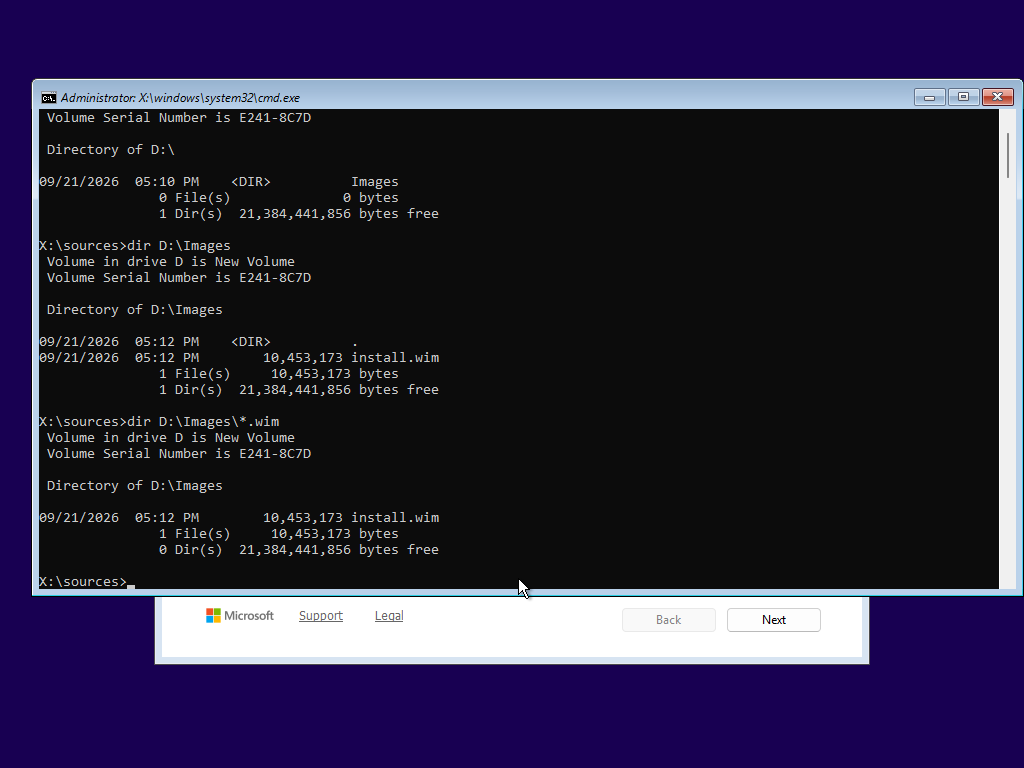
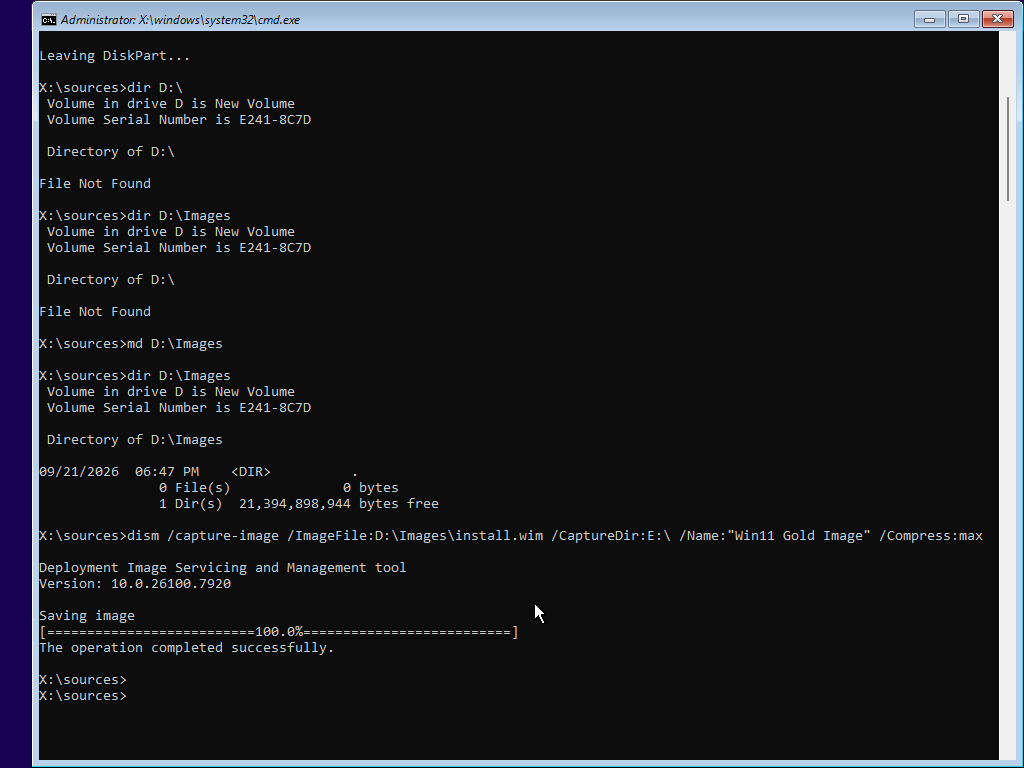
Completed New Processes for Objective 2

diff --git a/docs/2026-09-21_objective-2.md b/docs/2026-09-21_objective-2.md
@@ -91,9 +91,11 @@ I reverted the machine to an earlier state using snapshots and formatted a new v
 hard disk, assigning it the letter G:\. I then proceeded once more with Sysprep, 
 repeating cleanup and preparation procedures beforehand.*
 
+![](../screenshots/2026-09-21_diskpart-verification.png)
 ![](../screenshots/2026-09-21_gold-image-wim-creation-verification.png)
-> *Calling up WinPE using `Shift + F10` in the Windows installation prompt, I called
-Deployment Image Servicing and Management (dism) to capture the C:\ drive to a WIM 
-file on the separate capture disk (D:\\) using maximum compression `/compress:max`. I 
-then verified the capture completed by calling `dir D:\Images` to verify that 
-`install.wim` exists.*
+> *I learned that in virtual machines, snapshots prevent proper imaging from occurring.
+Before I could take a golden image of the machine, I needed to compress all of the
+snapshots. After this was completed, I ran `diskpart` and `list volume` to find what
+drive letters had been assigned to my virtual hard drive and the operating system
+(D:\ and E:\ respectively) and ran `dism /Capture-Image` using the appropriate drive
+letters. The gold image has been saved as `install.wim`.*
